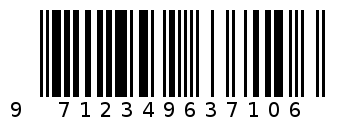
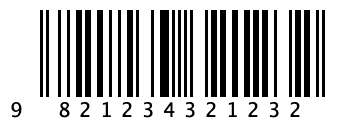
Done some refractoring...

diff --git a/src/barcode/Decode.java b/src/barcode/Decode.java
@@ -18,16 +18,16 @@ public class Decode {
 	
 
 	/**
-	 * This decodes an EAN/ ISBN_ 13 Barcode...
-	 * 
-	 * @param fileName
-	 * @param outputFile
-	 * @param barcodeVerticalpos
-	 * @return
+	 * Decodes an 13 Digit barcode, according to the given decoding sceme.
+	 *  
+	 * @param fileName Image of the barcode to be decoded.
+	 * @param outputFile The file to which an imiga containing debbung information is written.
+	 * @param scemeSequence One of the supported decoding scemes. See:{@link Barcode.java}
+	 * @param barcodeVerticalpos Vertical start of barcode.
 	 * @throws IOException
 	 */
 
-	public static int[] ean(String fileName, String outputFile, int barcodeVerticalpos) throws IOException {
+	public static int[] ean(String fileName, String outputFile, String scemeSequence,int barcodeVerticalpos) throws IOException {
 
 		long startTime = System.currentTimeMillis();
 
@@ -307,17 +307,17 @@ public class Decode {
 			if (mod == 0) {
 				mod = Barcode.ONE_MODULE_EQUALS_7_BARS;
 				if (digitNr == 0)
-					digit = DigitCodes.getDigitFirstH("A", modulesToDecode.toString());
+					digit = DigitCodes.getDigitFirstH(scemeSequence.substring(1,2), modulesToDecode.toString());
 				if (digitNr == 1)
-					digit = DigitCodes.getDigitFirstH("B", modulesToDecode.toString());
+					digit = DigitCodes.getDigitFirstH(scemeSequence.substring(2, 3), modulesToDecode.toString());
 				if (digitNr == 2)
-					digit = DigitCodes.getDigitFirstH("B", modulesToDecode.toString());
+					digit = DigitCodes.getDigitFirstH(scemeSequence.substring(3, 4), modulesToDecode.toString());
 				if (digitNr == 3)
-					digit = DigitCodes.getDigitFirstH("A", modulesToDecode.toString());
+					digit = DigitCodes.getDigitFirstH(scemeSequence.substring(4, 5), modulesToDecode.toString());
 				if (digitNr == 4)
-					digit = DigitCodes.getDigitFirstH("B", modulesToDecode.toString());
+					digit = DigitCodes.getDigitFirstH(scemeSequence.substring(5, 6), modulesToDecode.toString());
 				if (digitNr == 5)
-					digit = DigitCodes.getDigitFirstH("A", modulesToDecode.toString());
+					digit = DigitCodes.getDigitFirstH(scemeSequence.substring(6, 7), modulesToDecode.toString());
 
 				digitNr++;
 				protocol.append(" -> " + modulesToDecode + "=" + digit + "\n");

diff --git a/src/barcode/Encode.java b/src/barcode/Encode.java
@@ -25,13 +25,13 @@ public class Encode {
 	 * @param code A valid string containing a valid sequence of 12 integers to be
 	 *             encoded into an ean code.
 	 * 
-	 * @return A object of the type {@Link Result}.
+	 * @param scemeSequence The encoding sequence => see {@link Barcode.java}
+	 * 
+	 * @return A object of the type {@link Result}.
 	 */
-	public static Result doEncoding(String code) {
+	public static Result doEncoding(String code, String scemeSequence) {
 		StringBuilder binary = new StringBuilder(); // Raw binary of the code.
 		StringBuilder protocol = new StringBuilder(); // Human readable form of the encoded code.
-
-		String scemeSequence;
 
 		//
 		// Check parameters.
@@ -47,11 +47,10 @@ public class Encode {
 		//
 		int firstDigit = Integer.valueOf(code.substring(0, 1));
 		
-		if (firstDigit == Barcode.ISBN) {
-			scemeSequence = Barcode.SCEME_SEQUENCE_ISBN;
+		if (firstDigit == Barcode.ISBN && scemeSequence==Barcode.SCEME_SEQUENCE_ISBN) {
 			protocol.append("Generating ISBN...\n\n");
 		} else {
-			protocol.append("No valid encoding sceme for an ean passed. Aborded.\n");
+			protocol.append("No valid encoding sceme and/ or valid first digit for an ean passed. Aborded.\n");
 			Result r = new Result("", code,protocol.toString(), Barcode.ERROR);
 			return r;
 		}

diff --git a/src/Main.java b/src/Main.java
@@ -15,7 +15,7 @@ public class Main {
 		int[] decodedDigits = new int[Barcode.LENGTH_OF_EAN_13];
 
 		//for (int i = 80; i <= 90; i++) {
-			decodedDigits = Decode.ean("bar13.png", "debugImage.png", 150);
+			decodedDigits = Decode.ean("generated_barcode.png", "debugImage.png", Barcode.SCEME_SEQUENCE_TEST,15);
 
 			//if (GetChecksumFor.isbn(decodedDigits))
 			//	break;
@@ -29,7 +29,7 @@ public class Main {
 		
 		// Encoding demo
 		
-		Result code=Encode.doEncoding("971234963710");
+		Result code=Encode.doEncoding("982123432123",Barcode.SCEME_SEQUENCE_TEST);
 	
 		BarcodeRenderer.draw(code);
 		

diff --git a/src/barcode/Barcode.java b/src/barcode/Barcode.java
@@ -13,6 +13,7 @@ public class Barcode {
 	
 	public static final int ISBN = 9;
 	public static final String SCEME_SEQUENCE_ISBN = "XABBABA"; // First X=> no sceme necessary....
+	public static final String SCEME_SEQUENCE_TEST="XBBAABB";
 	
 	public static final int LENGTH_OF_EAN_13 = 13;
 	public static final int ONE_MODULE_EQUALS_7_BARS = 7;

diff --git a/readme.md b/readme.md
@@ -1,0 +1,4 @@
+Barcode
+-------
+De- and encodes barcodes of type EAN.
+Experimantal, but, basically works for EAN- Codes of the type ISBN. Still needs a lot of refractoring to be done (Especially the code doing the decoding). 
